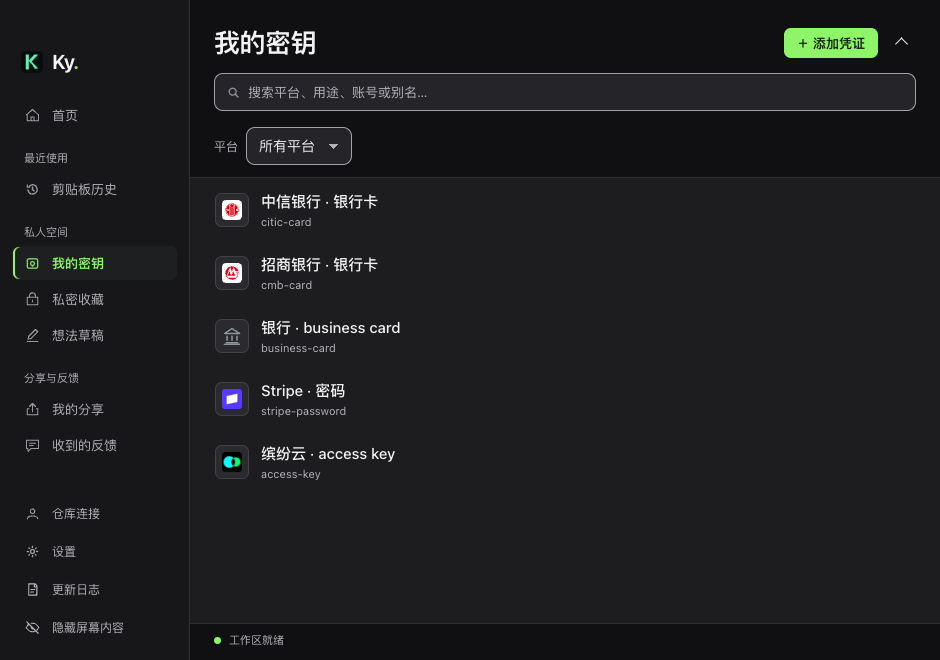
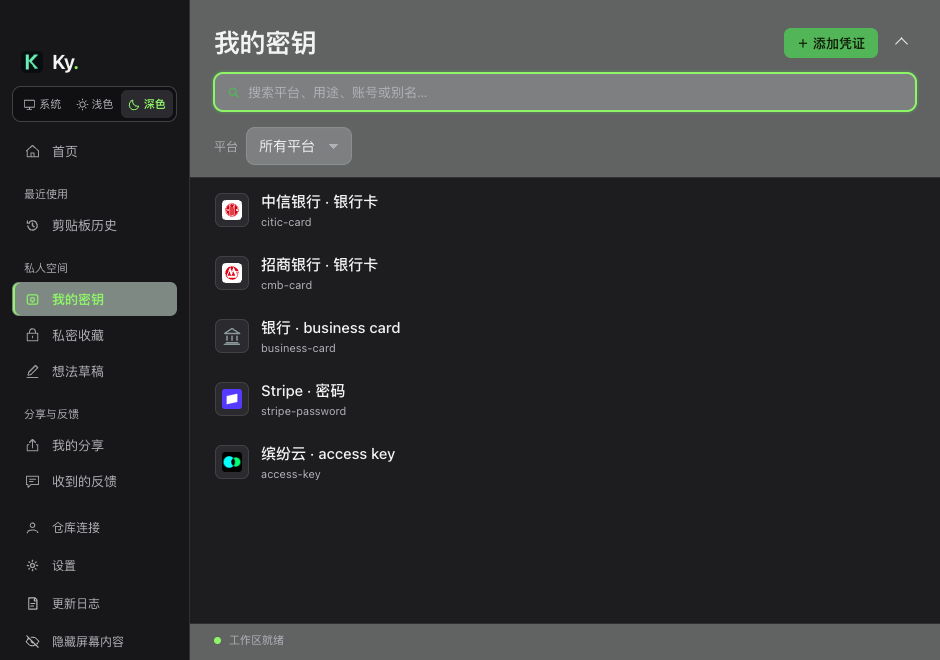
feat(desktop): 侧栏切换三种外观，统一输入面的高光与焦点反馈

diff --git a/desktop/ui/styles.css b/desktop/ui/styles.css
@@ -13,7 +13,7 @@
      inline (that was what made the search row read as crowded). */
 
 :root {
-  color-scheme: light dark;
+  color-scheme: dark;
 
   /* Motion tokens (single source for consistency). */
   --ease: cubic-bezier(.22, .61, .36, 1);
@@ -77,8 +77,9 @@
 }
 
 
-@media (prefers-color-scheme: light) {
-  :root {
+
+:where(html[data-theme="light"]):root {
+    color-scheme: light;
     --bg: #eef4ef;
     --sidebar: #e9f0ea;
     --surface: #f7faf8;
@@ -98,9 +99,10 @@
     --body-opaque: #eef4ef;
   }
   @supports ((backdrop-filter: blur(4px)) or (-webkit-backdrop-filter: blur(4px))) {
-    :root { --body-opaque: rgba(238, 244, 239, .42); }
+
+:where(html[data-theme="light"]):root { --body-opaque: rgba(238, 244, 239, .42); }
   }
-}
+
 
 * { box-sizing: border-box; }
 [hidden] { display: none !important; }
@@ -121,20 +123,22 @@ body {
 .sidebar, main, dialog { background: var(--sidebar); }
 .library, .detail, .settings { background: var(--surface); }
 
-@media (prefers-color-scheme: light) {
+
 @supports ((backdrop-filter: blur(4px)) or (-webkit-backdrop-filter: blur(4px))) {
-  .sidebar, main, dialog {
+
+:where(html[data-theme="light"]) .sidebar, :where(html[data-theme="light"]) main, :where(html[data-theme="light"]) dialog {
     background: color-mix(in srgb, var(--sidebar) 62%, transparent);
     -webkit-backdrop-filter: blur(30px) saturate(1.6);
     backdrop-filter: blur(30px) saturate(1.6);
   }
-  .library, .detail, .settings {
+
+:where(html[data-theme="light"]) .library, :where(html[data-theme="light"]) .detail, :where(html[data-theme="light"]) .settings {
     background: color-mix(in srgb, var(--surface) 60%, transparent);
     -webkit-backdrop-filter: blur(30px) saturate(1.6);
     backdrop-filter: blur(30px) saturate(1.6);
   }
 }
-}
+
 .toolbar, .search-row, footer { background: transparent; }
 
 /* AA contrast: bumped muted for glass legibility. */
@@ -466,9 +470,9 @@ main[data-view=vault] .entry-meta { color: var(--muted); }
 #account,#home { flex: 1; min-height: 0; overflow: auto; }
 
 .platform-mark img { width: 20px; height: 20px; object-fit: contain; }
-@media (prefers-color-scheme: dark) {
-  .platform-mark img.mono-mark { filter: invert(1); }
-}
+
+:where(html[data-theme="dark"]) .platform-mark img.mono-mark { filter: invert(1); }
+
 @media (forced-colors: active) {
   .platform-mark:has(img) { forced-color-adjust: none; background: white; }
   .platform-mark img.mono-mark { filter: none; }
@@ -499,11 +503,33 @@ main[data-view=vault] .entry-meta { color: var(--muted); }
 }
 .release-row[open] { padding-bottom: var(--s3); }
 
-@media (prefers-color-scheme: dark) {
-  main { background: var(--bg); }
-  .sidebar { background: var(--sidebar); }
-  dialog, .detail, .ky-toast { background: var(--raised); }
-  .nav-item[aria-current="page"], .entry[aria-pressed="true"] {
+
+:where(html[data-theme="dark"]) main { background: var(--bg); }
+
+:where(html[data-theme="dark"]) .sidebar { background: var(--sidebar); }
+
+:where(html[data-theme="dark"]) dialog, :where(html[data-theme="dark"]) .detail, :where(html[data-theme="dark"]) .ky-toast { background: var(--raised); }
+
+:where(html[data-theme="dark"]) .nav-item[aria-current="page"], :where(html[data-theme="dark"]) .entry[aria-pressed="true"] {
     box-shadow: inset 2px 0 var(--accent);
   }
+
+
+/* Appearance remains within reach when the navigation collapses. */
+.sidebar { overflow-y: auto; }
+.brand { padding-bottom: var(--s3); }
+#appearance {
+  display: flex; padding: 3px; margin: 0 0 var(--s3);
+  border: 1px solid var(--line); border-radius: 9px; background: var(--bg);
+}
+#appearance label { position: relative; flex: 1; min-width: 0; cursor: pointer; }
+#appearance input { position: absolute; opacity: 0; width: 1px; height: 1px; }
+#appearance label > span { display: flex; align-items: center; justify-content: center; gap: 3px; min-height: 28px; border-radius: 6px; color: var(--muted); font-size: var(--t-xs); }
+#appearance svg { width: 13px; height: 13px; fill: none; stroke: currentColor; stroke-width: 1.8; stroke-linejoin: round; stroke-linecap: round; }
+#appearance input:checked + span { background: var(--raised); color: var(--accent); font-weight: 650; }
+#appearance input:focus-visible + span { outline: 2px solid var(--accent); }
+#appearance-select { display: none; }
+@media (max-width: 760px) {
+  #appearance { display: none; }
+  #appearance-select { display: block; padding: 0; width: 100%; min-height: 32px; margin-bottom: var(--s2); font-size: var(--t-xs); }
 }

diff --git a/desktop/ui/index.html b/desktop/ui/index.html
@@ -5,6 +5,7 @@
   <meta name="viewport" content="width=device-width, initial-scale=1">
   <meta name="color-scheme" content="light dark">
   <title>Ky</title>
+  <script src="appearance.js"></script>
   <link rel="stylesheet" href="styles.css">
   <link rel="stylesheet" href="workspace.css">
   <link rel="stylesheet" href="home.css">
@@ -20,6 +21,12 @@
       <div class="brand-mark"><img src="logo.png" alt="" width="24" height="24"></div>
       <span class="wordmark">Ky<span class="brand-dot">.</span></span>
     </header>
+    <fieldset id="appearance" data-i18n-aria="theme.title">
+    <label><input type="radio" name="appearance" value="system" data-i18n-aria="theme.system"><span><svg viewBox="0 0 24 24" aria-hidden="true"><path d="M3 4h18v13H3z M8 21h8m-4-4v4"/></svg><span data-i18n="theme.system">系统</span></span></label>
+    <label><input type="radio" name="appearance" value="light" data-i18n-aria="theme.light"><span><svg viewBox="0 0 24 24" aria-hidden="true"><path d="M12 7a5 5 0 1 0 0 10 5 5 0 1 0 0-10 M12 2v2m0 16v2M2 12h2m16 0h2M5 5l1.5 1.5m11 11L19 19M5 19l1.5-1.5m11-11L19 5"/></svg><span data-i18n="theme.light">浅色</span></span></label>
+    <label><input type="radio" name="appearance" value="dark" data-i18n-aria="theme.dark"><span><svg viewBox="0 0 24 24" aria-hidden="true"><path d="M20 15a9 9 0 0 1-11-11 9 9 0 1 0 11 11z"/></svg><span data-i18n="theme.dark">深色</span></span></label>
+    </fieldset>
+    <select id="appearance-select" data-i18n-aria="theme.title"><option value="system" data-i18n="theme.system">系统</option><option value="light" data-i18n="theme.light">浅色</option><option value="dark" data-i18n="theme.dark">深色</option></select>
     <nav>
       <button class="nav-item" data-view="home" data-i18n-aria="nav.home"><span class="nav-icon" aria-hidden="true"></span><span data-i18n="nav.home"></span></button>
       <div class="nav-group" data-i18n="group.recent"></div>
@@ -60,6 +67,7 @@
     <div class="search-row" id="search-row">
       <span class="search-icon" aria-hidden="true"></span>
       <input id="search" type="search" autocomplete="off" spellcheck="false" data-i18n-placeholder="search.placeholder" data-i18n-aria="search.aria">
+      <kbd aria-hidden="true">⌘ F</kbd>
     </div>
 
     <div id="vault-platform-row" hidden><label for="vault-platform" data-i18n="vault.platform"></label><select class="ky-control" id="vault-platform"></select></div>

diff --git a/desktop/ui/appearance.js b/desktop/ui/appearance.js
@@ -1,0 +1,40 @@
+// Apply the saved appearance before first paint, including native form controls.
+(() => {
+  const key = 'ky.theme';
+  const options = ['system', 'light', 'dark'];
+  const systemDark = matchMedia('(prefers-color-scheme: dark)');
+  let mode = 'system';
+  try {
+    const saved = localStorage.getItem(key);
+    if (options.includes(saved)) mode = saved;
+  } catch { /* System mode also works with storage disabled. */ }
+  function paint() {
+    document.documentElement.dataset.theme = mode === 'system'
+      ? (systemDark.matches ? 'dark' : 'light') : mode;
+  }
+  function applyNative() {
+    globalThis.__TAURI__?.app?.setTheme(mode === 'system' ? null : mode)?.catch(() => {});
+  }
+  paint();
+  systemDark.addEventListener('change', paint);
+  document.addEventListener('DOMContentLoaded', () => {
+    const picker = document.querySelector('#appearance');
+    const compact = document.querySelector('#appearance-select');
+    function syncControls() {
+      picker.querySelector('input[value="' + mode + '"]').checked = true;
+      compact.value = mode;
+    }
+    function choose(event) {
+      if (!options.includes(event.target.value)) return;
+      mode = event.target.value;
+      try { localStorage.setItem(key, mode); } catch { /* Keep session choice. */ }
+      paint();
+      syncControls();
+      applyNative();
+    }
+    syncControls();
+    applyNative();
+    picker.addEventListener('change', choose);
+    compact.addEventListener('change', choose);
+  });
+})();

diff --git a/desktop/ui/controls.css b/desktop/ui/controls.css
@@ -95,3 +95,23 @@ select.ky-control[aria-expanded=true] { border-color: var(--accent); }
 .ky-control[aria-invalid=true]:focus, .ky-control:user-invalid:focus { outline-color: var(--danger); }
 .ky-option .platform-mark { width: 25px; height: 25px; background: transparent; }
 .ky-option .platform-mark img { width: 16px; height: 16px; }
+
+/* A thin upper reflection and a recessed face distinguish editable surfaces. */
+:root {
+  --field-lip: color-mix(in srgb, var(--text) 13%, transparent);
+  --field-edge: color-mix(in srgb, var(--muted) 60%, var(--line));
+}
+.ky-control:not([type=checkbox]), .search-row {
+  box-shadow: inset 0 1px 0 var(--field-lip), 0 1px 2px color-mix(in srgb, var(--bg) 35%, transparent);
+}
+.search-row { padding-inline: var(--s3); }
+.search-row .search-icon { transition: color var(--dur-fast) var(--ease); }
+.search-row kbd {
+  flex: none; padding: 1px 5px; border: 1px solid var(--line); border-radius: 4px;
+  color: var(--muted); font: var(--t-xs)/1.5 var(--mono);
+}
+.search-row:focus-within .search-icon { color: var(--accent); }
+.search-row:focus-within kbd { visibility: hidden; }
+.ky-control:not([type=checkbox]):focus, .search-row:focus-within {
+  box-shadow: inset 0 1px 0 var(--field-lip), 0 0 0 3px var(--field-glow);
+}

diff --git a/desktop/ui/i18n.js b/desktop/ui/i18n.js
@@ -5,6 +5,11 @@
 export const DEFAULT_LANG = 'zh-CN';
 
 const zh = {
+  'theme.title': '外观',
+  'theme.system': '系统',
+  'theme.light': '浅色',
+  'theme.dark': '深色',
+
   'flash.sound': '闪记保存音效',
   'flash.browser': '连接浏览器…',
   'flash.install': '在浏览器的扩展管理页开启开发者模式，点「加载已解压的扩展程序」，选择 Finder 中的 extension 文件夹。',
@@ -240,6 +245,11 @@ const zh = {
 };
 
 const en = {
+  'theme.title': 'Appearance',
+  'theme.system': 'Auto',
+  'theme.light': 'Light',
+  'theme.dark': 'Dark',
+
   'flash.sound': 'Quick note sound',
   'flash.browser': 'Connect browser…',
   'flash.install': 'In the browser extensions page, turn on Developer mode and load the extension folder selected in Finder.',

diff --git a/desktop/ui/home.css b/desktop/ui/home.css
@@ -99,7 +99,7 @@
   #home button:active { transform: none; }
 }
 
-@media (prefers-color-scheme: dark) {
-  .ky-home-hero { background: linear-gradient(115deg, var(--raised), var(--sidebar)); }
-  .ky-home-art i { background: linear-gradient(140deg, var(--raised), var(--bg)); }
-}
+
+:where(html[data-theme="dark"]) .ky-home-hero { background: linear-gradient(115deg, var(--raised), var(--sidebar)); }
+
+:where(html[data-theme="dark"]) .ky-home-art i { background: linear-gradient(140deg, var(--raised), var(--bg)); }

diff --git a/DESIGN.md b/DESIGN.md
@@ -19,7 +19,7 @@ reinvents redaction — it only displays what the backend returns.
 No dependencies / no build. Static files only.
 No inline JS or CSS, no `unsafe-html`. Handlers are attached in code; all text
 is inserted with `textContent`, never `innerHTML`.
-No network. `localStorage` holds **only** `ky.lang` and `ky.toolbarCollapsed` —
+No network. `localStorage` holds **only** `ky.lang`, `ky.theme` and `ky.toolbarCollapsed` —
 never history, secrets, or clipboard content.
 
 ## 3. Architecture
@@ -58,7 +58,7 @@ tests) authoritative when the `desktop` flag is computed.
 
 Dark mode uses neutral surfaces: window `#101012`, sidebar `#171719`, content `#1d1d20`, elevated controls and dialogs `#2b2b2f`. The bright green accent `#8ef568` identifies primary actions, focus, and selected items. Opaque surfaces keep wallpaper colours out of the dark palette.
 
-Light mode uses a pale background and a deeper green accent (`#0a6b46`). Both themes follow the system through `prefers-color-scheme`. Light surfaces can use vibrancy when backdrop blur is available.
+Light mode uses a pale background and a deeper green accent (`#0a6b46`). The sidebar offers system, light and dark appearance. System mode follows `prefers-color-scheme`. Light surfaces can use vibrancy when backdrop blur is available.
 
 macOS chrome: the sidebar reserves 30px at the top for the traffic lights,
    the toolbar title block is `-webkit-app-region: drag`, and every control is
